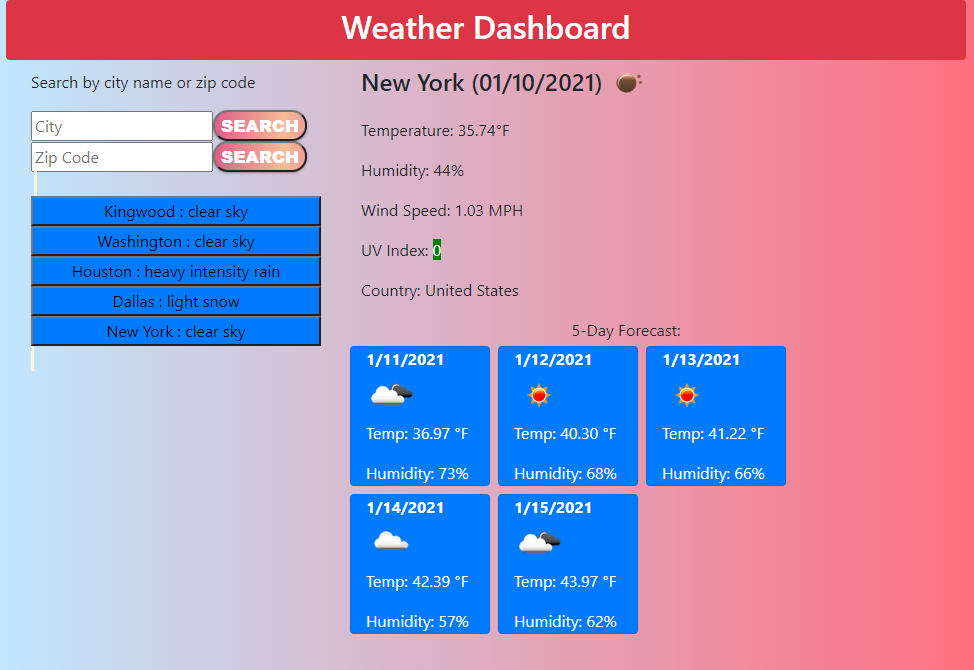
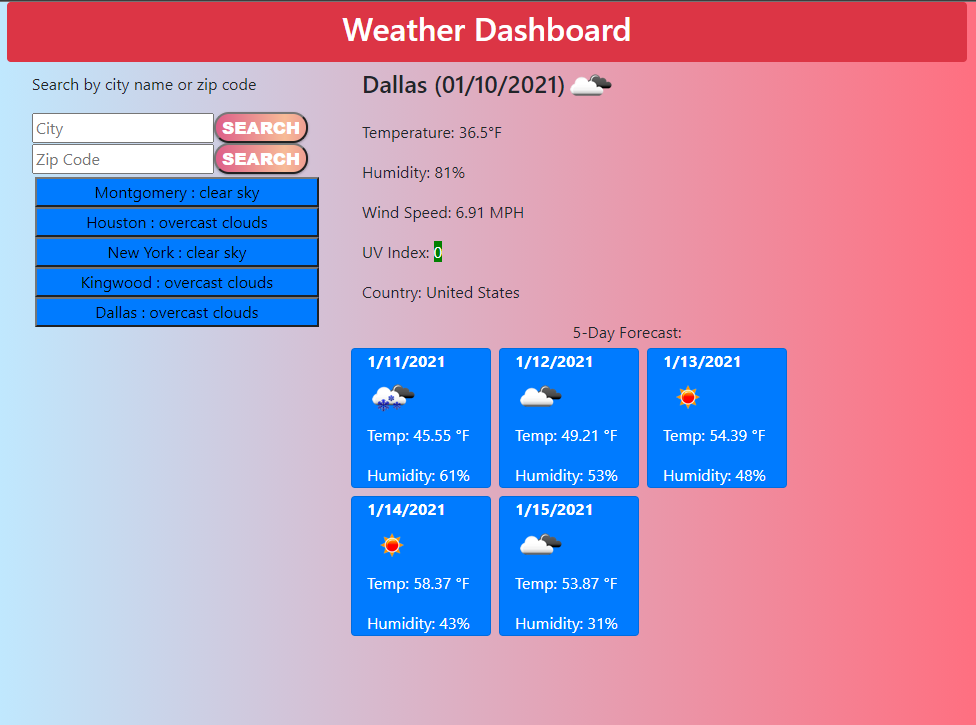
updated cities list tag from 'mark' to 'article' to fix the extra space on the cities list; updated the screenshot so it will look cleaner

diff --git a/assets/script.js b/assets/script.js
@@ -120,14 +120,6 @@ function renderCities() {
   }
 }
 
-// function to add the button with the city name and current weather description
-function addCity(name, desc) {
-  let addCity = $('<div>');
-  let cityName = $('<button>').text(`${name} : ${desc}`).attr('class', 'cityButton col-12 bg-primary').val(name);
-  addCity.append(cityName);
-  $('#cities').append(addCity);
-}
-
 // function to convert UNIX time to standard local date format
 function unixTime(uTime) {
   let milliseconds = uTime * 1000;
@@ -173,6 +165,7 @@ $('#zipText').keypress(function (event) {
   }
 });
 
+// onclick events for searched cities button
 $(document.body).on('click', '.cityButton', function (event) {
   searchWeather($(this).val(),false);
 });

diff --git a/index.html b/index.html
@@ -28,7 +28,7 @@
               class="zipbtn gradient-button gradient-button-1">Search</button><br>
           </form>
         </aside>
-        <mark id="cities"></mark>
+        <article id="cities"></article>
       </section>
       <section class="col-md-7">
         <div class="row">
